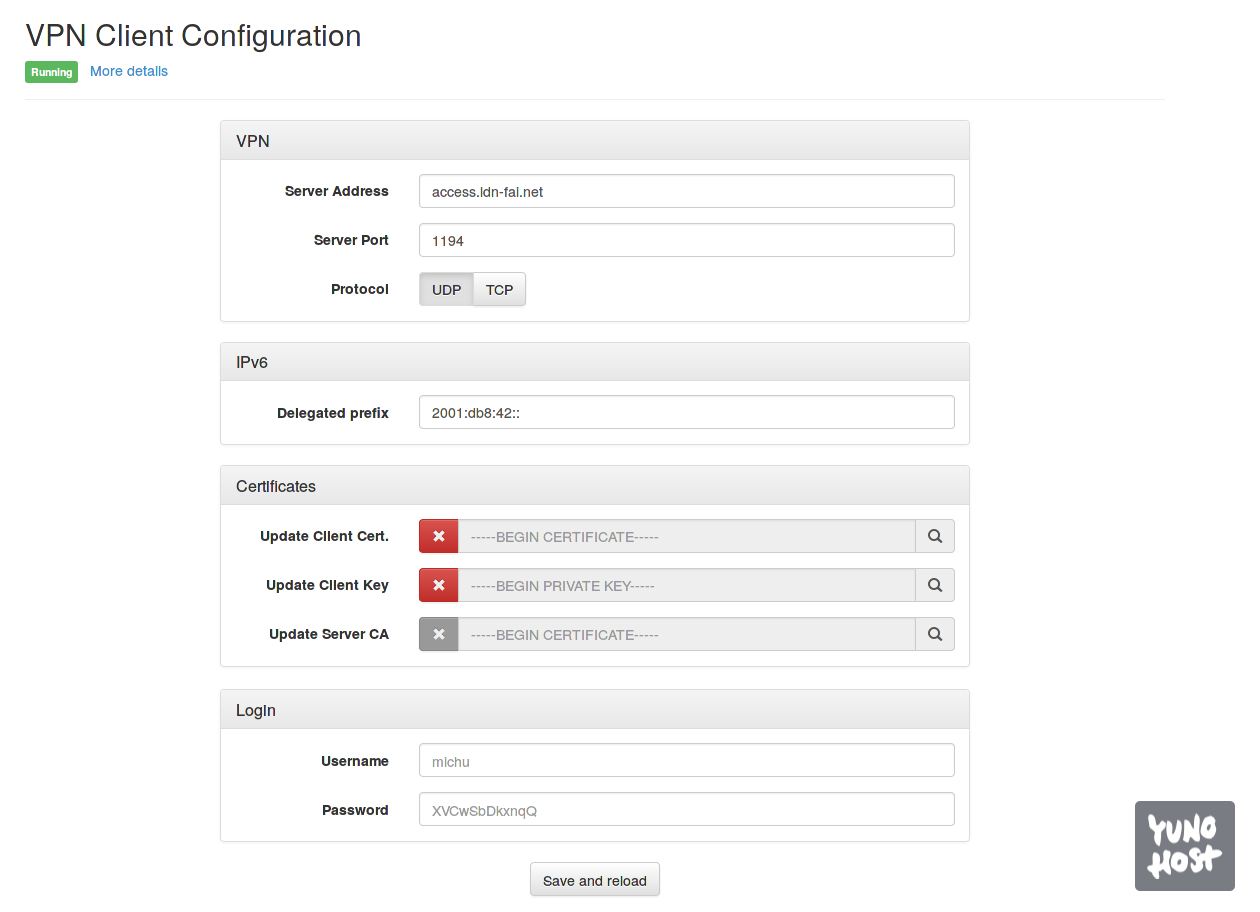
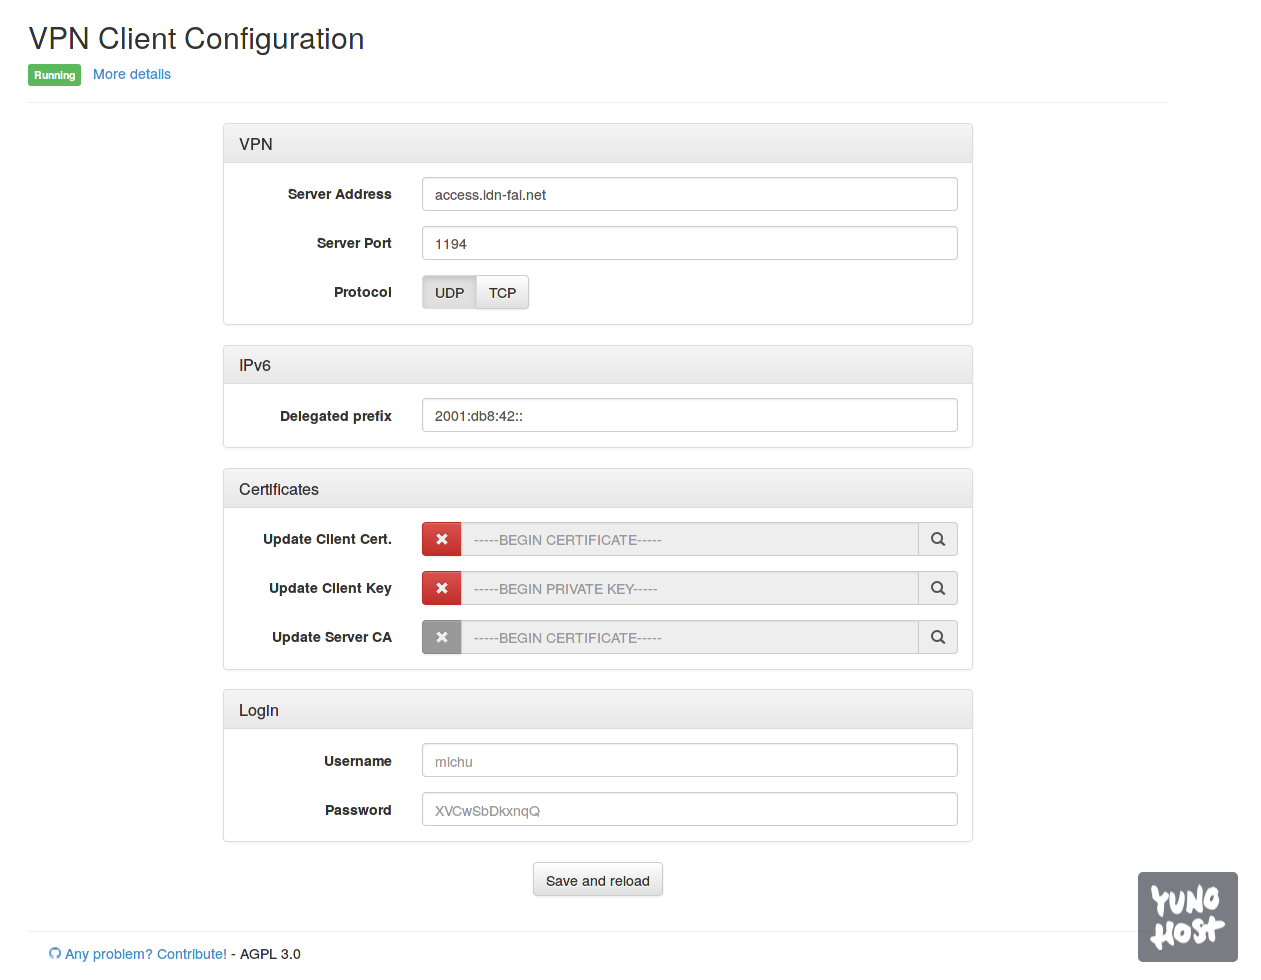
Add footer on the web admin

diff --git a/sources/public/css/style.css b/sources/public/css/style.css
@@ -60,3 +60,12 @@ a.btn-disabled, a.btn-disabled:hover, a.btn-disabled:active {
 a.btn-disabled:hover span {
   color: #eee;
 }
+
+div#github {
+  margin: -10px 0 20px 20px;
+  background: url(../img/github.png) no-repeat 0 4px;
+}
+
+div#github a {
+  margin-left: 17px;
+}

diff --git a/sources/views/layout.html.php b/sources/views/layout.html.php
@@ -17,23 +17,27 @@
 </head>
 <body>
   <div class="container">
-    <? if (isset($flash['error'])) { ?>
+    <? if(isset($flash['error'])): ?>
       <div class="alert alert-dismissible alert-danger fade in" style="margin-top: 20px" role="alert">
         <button type="button" class="close" data-dismiss="alert"><span aria-hidden="true">&times;</span><span class="sr-only">Close</span></button>
         <strong><?= T_('Error') ?>:</strong> <?= $flash['error'] ?>
       </div>
-    <? } elseif (isset($flash['notice'])) { ?>
+    <? elseif(isset($flash['notice'])): ?>
       <div class="alert alert-dismissible alert-info fade in" style="margin-top: 20px" role="alert">
         <button type="button" class="close" data-dismiss="alert"><span aria-hidden="true">&times;</span><span class="sr-only">Close</span></button>
         <strong><?= T_('Notice') ?>:</strong> <?= $flash['notice'] ?>
       </div>
-    <? } elseif (isset($flash['success'])) { ?>
+    <? elseif(isset($flash['success'])): ?>
       <div class="alert alert-dismissible alert-success fade in" style="margin-top: 20px" role="alert">
         <button type="button" class="close" data-dismiss="alert"><span aria-hidden="true">&times;</span><span class="sr-only">Close</span></button>
         <?= $flash['success'] ?>
       </div>
-    <? } ?>
+    <? endif; ?>
 
-    <?= $content?>
+    <?= $content ?>
+
+    <hr />
+    <div id="github"><a href="https://github.com/jvaubourg/vpnclient_ynh"><?= T_('Any problem? Contribute!') ?></a> - AGPL 3.0</div>
+  </div>
 </body>
 </html>
